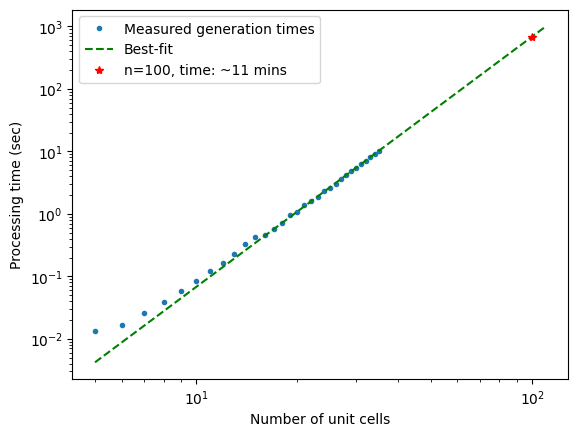
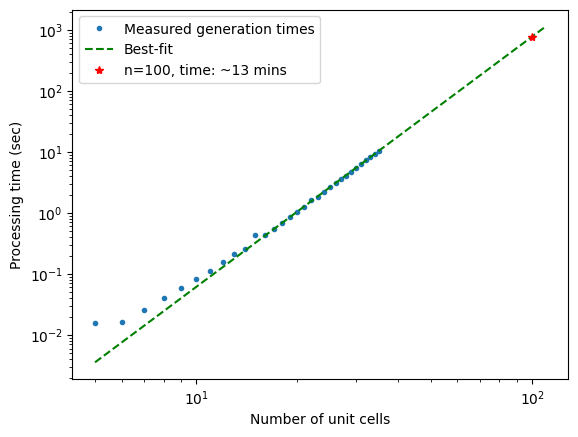
v0.9, added qre.estimate speed test

diff --git a/demonstrations_v2/re_how_to_use_pennylane_for_resource_estimation/demo.py b/demonstrations_v2/re_how_to_use_pennylane_for_resource_estimation/demo.py
@@ -1,26 +1,28 @@
 r"""How to use PennyLane for Resource Estimation
-===========================================================
-
-Fault tolerant quantum computing is on its way. But are there useful algorithms which are ready for
-it? The development of meaningful applications of quantum computing is an active area of research,
-and one of the major challenges in the process of assessing a potential quantum algorithm is
-determining the amount of resources required to execute it on hardware. An algorithm may still be
-helpful even when it cannot be executed, but is only truly helpful when it can.
-
-PennyLane is here to make that process easy, with our new resource estimation module:
-`pennylane.estimator <https://docs.pennylane.ai/en/latest/code/qml_estimator.html>`__.
-
-`pennylane.estimator <https://docs.pennylane.ai/en/latest/code/qml_estimator.html>`__ is meant to:
-
-- Make reasoning about quantum algorithms *quick* and painless - no complicated inputs, just tell
-  ``estimator`` what you know.
-- Keep you up to *speed* - ``estimator`` leverages the latest results from the literature to make
-  sure you’re as efficient as can be.
-- Get you moving *even faster* - in the blink of an eye ``estimator`` provides you with resource
-  estimates, and enables effortless customization to enhance your research.
-
-Let’s import our quantum resource estimator.
+============================================
 """
+
+######################################################################
+# Fault tolerant quantum computing is on its way. But are there useful algorithms which are ready for
+# it? The development of meaningful applications of quantum computing is an active area of research,
+# and one of the major challenges in the process of assessing a potential quantum algorithm is
+# determining the amount of resources required to execute it on hardware. An algorithm may still be
+# helpful even when it cannot be executed, but is only truly helpful when it can.
+# 
+# PennyLane is here to make that process easy, with our new resource estimation module:
+# `pennylane.estimator <https://docs.pennylane.ai/en/latest/code/qml_estimator.html>`__.
+# 
+# `pennylane.estimator <https://docs.pennylane.ai/en/latest/code/qml_estimator.html>`__ is meant to:
+# 
+# - Make reasoning about quantum algorithms *quick* and painless - no complicated inputs, just tell
+#   ``estimator`` what you know.
+# - Keep you up to *speed* - ``estimator`` leverages the latest results from the literature to make
+#   sure you’re as efficient as can be.
+# - Get you moving *even faster* - in the blink of an eye ``estimator`` provides you with resource
+#   estimates, and enables effortless customization to enhance your research.
+# 
+# Let’s import our quantum resource estimator.
+# 
 
 import pennylane as qml
 import pennylane.estimator as qre
@@ -56,7 +58,7 @@ t1 = time.time()
 spin_ham = qml.spin.kitaev(n_cells, coupling=np.array([kx, ky, kz]))
 t2 = time.time()
 
-print(f"Processing time: ~ {round(t2 - t1)} sec")
+print(f"Generation time: ~ {round(t2 - t1)} sec")
 print("Total number of terms:", len(spin_ham.operands))
 print("Total number of qubits:", len(spin_ham.wires))
 
@@ -65,7 +67,7 @@ print("Total number of qubits:", len(spin_ham.wires))
 # 
 # .. code-block:: none
 # 
-#    Processing time: ~ 6 sec
+#    Generation time: ~ 5 sec
 #    Total number of terms: 2640
 #    Total number of qubits: 1800
 
@@ -93,13 +95,13 @@ for n in n_lst:
 # 
 # .. code-block:: none
 # 
-#    Finished n = 5 in ~ 0.013249397277832031 sec
-#    Finished n = 10 in ~ 0.08349990844726562 sec
-#    Finished n = 15 in ~ 0.4231240749359131 sec
-#    Finished n = 20 in ~ 1.0640604496002197 sec
-#    Finished n = 25 in ~ 2.6067121028900146 sec
-#    Finished n = 30 in ~ 5.484071731567383 sec
-#    Finished n = 35 in ~ 10.278346300125122 sec
+#    Finished n = 5 in ~ 0.01563405990600586 sec
+#    Finished n = 10 in ~ 0.08188867568969727 sec
+#    Finished n = 15 in ~ 0.43582606315612793 sec
+#    Finished n = 20 in ~ 1.0403099060058594 sec
+#    Finished n = 25 in ~ 2.650714874267578 sec
+#    Finished n = 30 in ~ 5.526278495788574 sec
+#    Finished n = 35 in ~ 10.387336492538452 sec
 
 import matplotlib.pyplot as plt
 from scipy.optimize import curve_fit
@@ -128,7 +130,7 @@ plt.show()
 #    :width: 80%
 
 ######################################################################
-# It would take around 15 minutes just to generate the Hamiltonian for a 100 x 100 unit honeycomb
+# It would take around 15 minutes just to *generate* the Hamiltonian for a 100 x 100 unit honeycomb
 # lattice! Even after that, we would still be stuck with expensive processing tasks.
 # 
 
@@ -196,13 +198,20 @@ def circuit(hamiltonian):
 # It’s simple: just call ``qre.estimate``!
 # 
 
-print(qre.estimate(circuit)(kitaev_H))
+t1 = time.time()
+res = qre.estimate(circuit)(kitaev_H)
+t2 = time.time()
+
+print(f"Processing time: ~ {t2 - t1:.3} sec\n")
+print(res)
 
 ######################################################################
 # .. rst-class:: sphx-glr-script-out
 # 
 # .. code-block:: none
 # 
+#    Processing time: ~ 0.000364 sec
+#    
 #    --- Resources: ---
 #     Total wires: 2.000E+4
 #       algorithmic wires: 20000
@@ -217,6 +226,8 @@ print(qre.estimate(circuit)(kitaev_H))
 #       'Hadamard': 2.000E+4
 
 ######################################################################
+# Our resource estimate was generated in the blink of an eye.
+# 
 # | We can also analyze the resources of an individual ``ResourceOperator``.
 # | Let’s see how the cost of ``qre.TrotterPauli`` changes when we split our terms into groups of
 #   commuting terms:
@@ -439,10 +450,12 @@ print(default_cost_RZ)
 #       'T': 44
 
 ######################################################################
-# These are other state of the art methods we could use instead: - `Optimal ancilla-free Cliﬀord+T
-# approximation of z-rotations (Ross, Selinger) <https://arxiv.org/pdf/1403.2975>`__ - `Shorter
-# quantum circuits via single-qubit gate approximation (Kliuchnikov et
-# al) <https://arxiv.org/abs/2203.10064v2>`__
+# These are other state of the art methods we could use instead:
+# 
+# - `Optimal ancilla-free Cliﬀord+T approximation of z-rotations (Ross,
+#   Selinger) <https://arxiv.org/pdf/1403.2975>`__
+# - `Shorter quantum circuits via single-qubit gate approximation (Kliuchnikov et
+#   al) <https://arxiv.org/abs/2203.10064v2>`__
 # 
 
 # According to paper by Ross & Selinger, we can decompose RZ rotations into T-gates according to: 
@@ -550,8 +563,8 @@ print(resources)
 #       'Hadamard': 2.000E+4
 
 ######################################################################
-# Mapping your PennyLane circuits to ``estimator``
-# ~~~~~~~~~~~~~~~~~~~~~~~~~~~~~~~~~~~~~~~~~~~~~~~~
+# Estimating the Resources of your PennyLane Circuits
+# ~~~~~~~~~~~~~~~~~~~~~~~~~~~~~~~~~~~~~~~~~~~~~~~~~~~
 # 
 # If you’ve already written your workflow for execution, we can call estimate on it directly. No need
 # to write it again!
